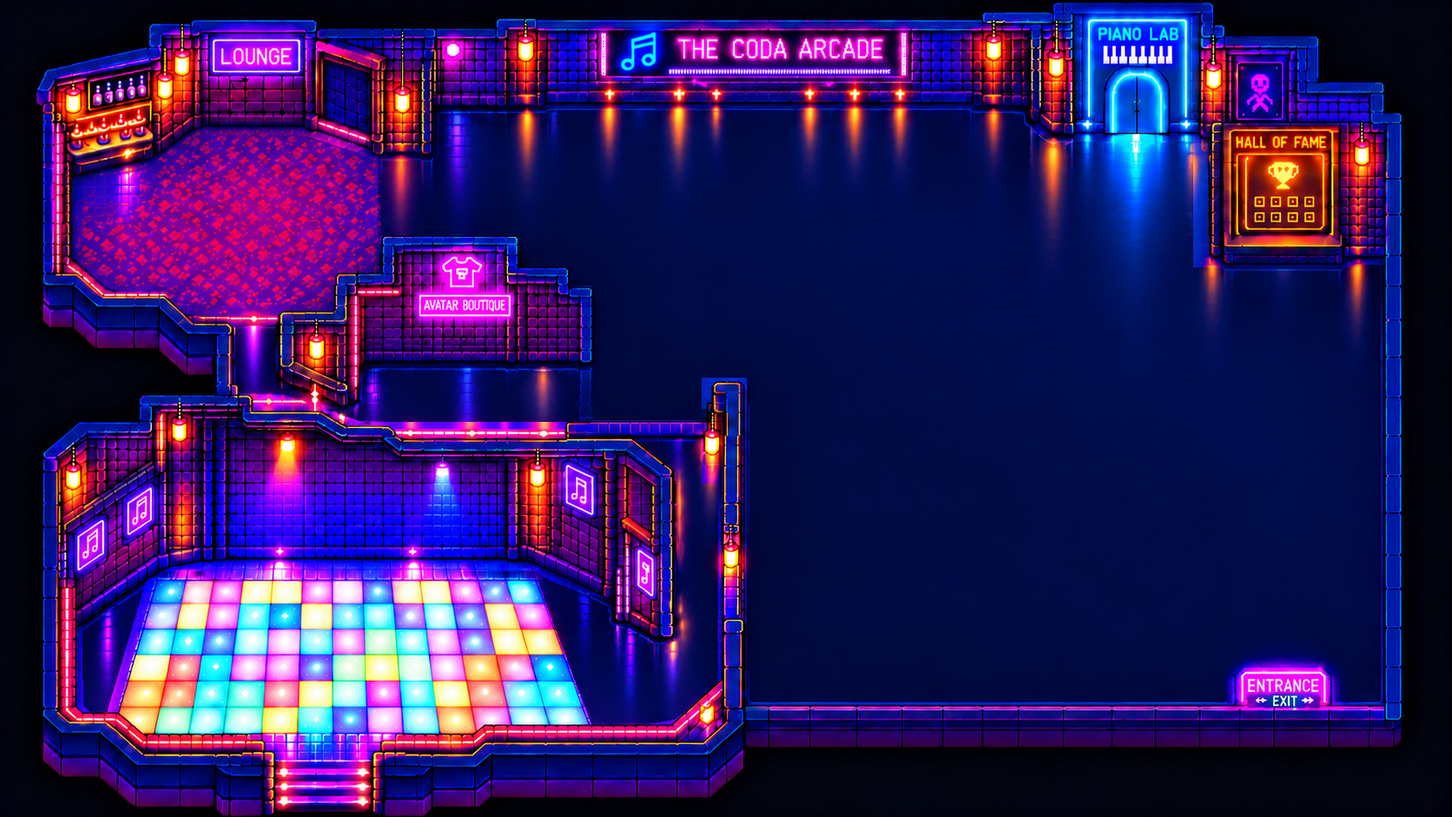
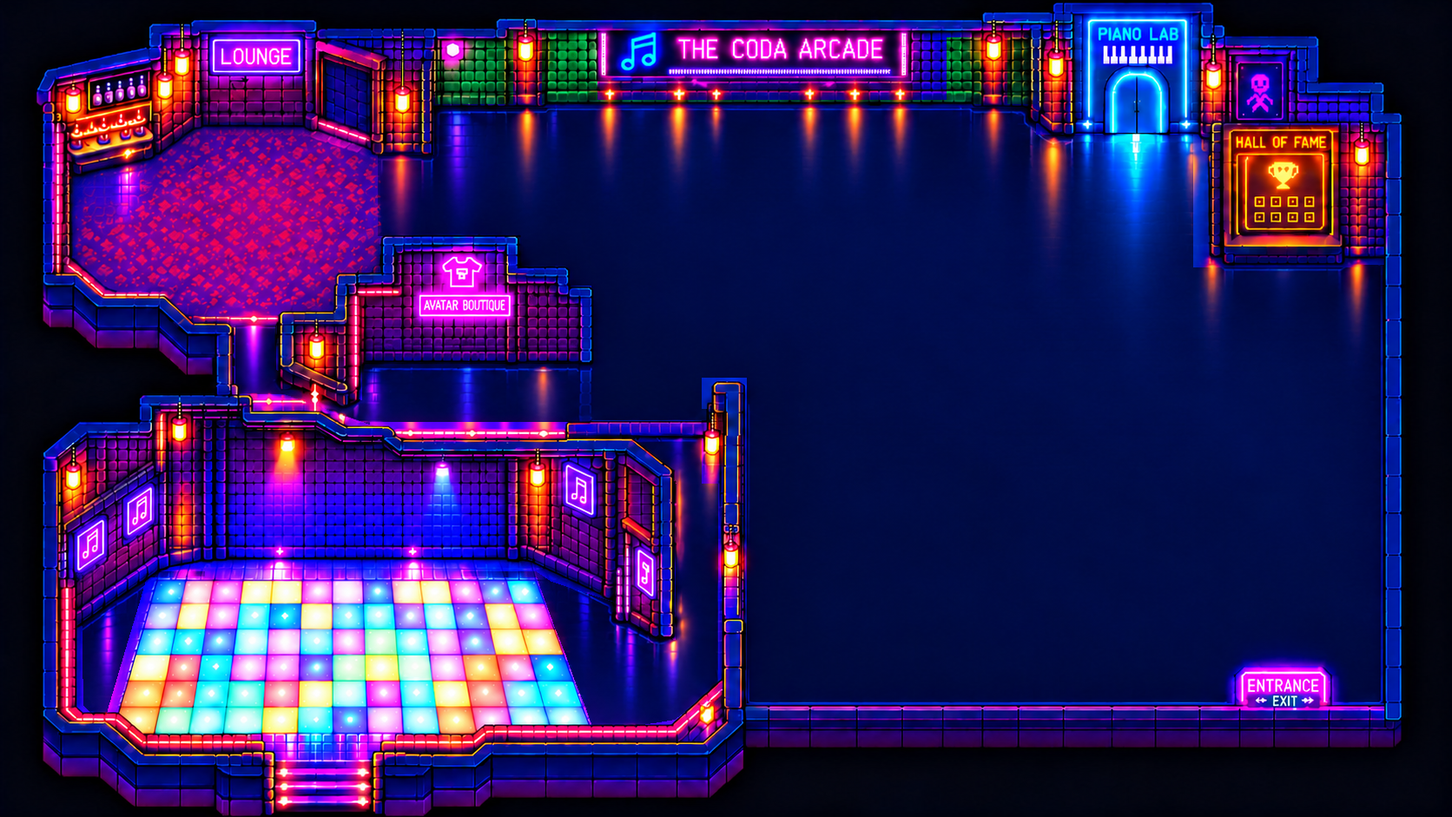
Apply emerald back wall and jade counter to the live assets
Implement the approved green palette in the actual environment art instead of leaving it only in a mock-up. Preserve the glass floor, layout, sign and lamp pixels outside the masonry mask, plus the counter silhouette and original gold trim.

Render the three known counter icons in mint and emerald while retaining their source PNGs and user artwork. Keep generated source art and a repeatable green postprocess in the floor build pipeline; refresh background and counter cache versions.

Validation: 890 Node tests and nine browser checks passed; fresh HTTP rendering shows the real green assets. Complete floor-plus-green rebuild is byte-identical.

Changed region(s): [[0.2799, 0.0308, 0.4354, 0.1541], [0.6531, 0.0308, 0.7153, 0.1233]]

diff --git a/world-preview.html b/world-preview.html
@@ -28,7 +28,7 @@
 #assetStudio{position:fixed;left:12px;top:80px;z-index:65;width:min(334px,calc(100vw - 24px));max-height:calc(100dvh - 99px);overflow:auto;background:#171529f5;border:1px solid #eac17d;box-shadow:0 12px 50px #05010de0,0 0 22px #fdac4a24;border-radius:12px;padding:13px;color:#f8efff;font:12px system-ui;backdrop-filter:blur(9px)}
 #assetStudio[hidden]{display:none}#assetStudio .studioHead{display:flex;align-items:center;justify-content:space-between;color:#ffe4a4;font-size:14px;gap:9px;margin-bottom:7px}#assetStudio .studioActions{display:flex;flex-wrap:wrap;gap:5px;margin:7px 0}#assetStudio button{font:inherit;min-height:28px;padding:5px 7px}#assetStudio .studioActions button{flex:1 0 90px}#assetStudio button:disabled{opacity:.36;cursor:not-allowed}#assetStudio hr{border:0;border-top:1px solid #655374;margin:13px 0}#assetStudio .studioField{display:grid;gap:3px;margin:7px 0}#assetStudio .studioField>label{font-weight:650;color:#dccdf3}#assetStudio input:not([type=checkbox]),#assetStudio select{background:#131024;border:1px solid #866e9b;color:#fff;padding:7px;border-radius:5px;width:100%;font:inherit;min-width:0}#assetStudio input[type=checkbox]{accent-color:#f9c880}#assetStudio .studioGrid{display:grid;grid-template-columns:1fr 1fr;gap:8px}#assetStudio .studioTip{color:#c9b9d6;line-height:1.45;font-size:11px;margin:6px 0}#assetStudio #assetList{height:108px;padding:2px}#assetStudio #assetList option{padding:6px}#assetStudio #assetMessage{color:#bbf5e5;min-height:18px;overflow-wrap:anywhere}#assetStudio #assetSelection[hidden]{display:none}#assetStudio .studioCheck{display:inline-flex;align-items:center;gap:6px;margin:5px 11px 5px 0}#assetStudio .studioCollapsible{border:1px solid #655374;border-radius:7px;padding:8px}#assetStudio summary{cursor:pointer;color:#ffe4b1;font-weight:650}#assetToggle{border-color:#eecc7c}#view.asset-editing{cursor:crosshair;touch-action:none}#assetStudio #assetAdd{background:#675022;border-color:#e8b85c}#assetStudio #assetImport{border-color:#80d3ed}#assetStudio #assetExport{border-color:#80d3ed}#assetStudio #assetHelp{background:#271d3c}#assetStudio .studioHot{color:#ffcfa4}body.asset-console-open #layerEditor{display:none!important}@media(max-width:650px){#assetStudio{top:120px;max-height:calc(100dvh - 138px)}}
 /* DJ unlocks */ #panel .jukebox-track-locked{background:#79788612;border-radius:8px;padding:8px}#panel .jukebox-track-locked strong,#panel .jukebox-track-locked small{color:#a6a6b8}#panel .jukebox-track-locked [data-dj-requirement]{color:#e9d29e}
-</style><link rel="stylesheet" href="mobile-controls.css?v=controls-81"><link rel="stylesheet" href="world-mobile.css?v=dialogue-1"><script src="mobile-controls.js?v=joystick-41"></script><script src="finger-follow.js?v=student-29"></script><link rel="stylesheet" href="reward-notifications.css?v=music-30"><script src="reward-notifications.js?v=music-30"></script><link rel="stylesheet" href="developer-console.css?v=rugs-flip-20261031-1"><link rel="stylesheet" href="musician-ui.css?v=dialogue-1"><link rel="stylesheet" href="boutique-ui.css?v=avatar-50"><script src="collision-editor.js?v=mobile-28"></script><script src="world-object-catalog.js?v=floor-61"></script><script src="fishing-entrance.js?v=fishing-31"></script><script src="world-object-runtime.js?v=rugs-flip-20261031-1"></script><script src="world-lighting.js?v=dj-96"></script><script src="dj-floodlights.js?v=stage-lights-20261031-1"></script><script src="dance-floor.js?v=aligned-dance-20261031-1"></script><script src="floor-stars.js?v=glass-stars-20261031-1"></script><script src="dance-rhythm-engine.js?v=play-97"></script><script src="dance-floor-stage.js?v=dance-95"></script><script src="dj-library.js?v=dj-96"></script><link rel="stylesheet" href="dialogue-editor.css?v=music-30"><script src="dialogue-editor.js?v=music-30"></script><link rel="stylesheet" href="pixel-editor.css?v=pixels-103"><script src="pixel-selection.js?v=smooth-mask-1"></script><script src="layer-selection.js?v=layer-selection-20261030-1"></script><script src="pixel-editor.js?v=smooth-mask-1"></script><script src="world-floor-grid.js?v=flat-75"></script><link rel="stylesheet" href="education-editor.css?v=author-101"><link rel="stylesheet" href="education-visual-editor.css?v=author-101"><script src="education-visual-editor.js?v=author-101"></script><script src="education-editor.js?v=author-101"></script><link rel="stylesheet" href="music-history-editor.css?v=facts-20261029-1"><script src="music-history-editor.js?v=facts-20261029-1"></script><script src="environment-art.js?v=glass-fringe-20261031-1"></script><script src="world-character-editor.js?v=selected-order-20261030-1"></script><link rel="stylesheet" href="decor-library.css?v=decor-20261030-1"><script src="decor-library.js?v=rugs-flip-20261031-1"></script><script src="floor-palette-compat.js?v=glass-fringe-20261031-1"></script><script src="developer-console.js?v=glass-fringe-20261031-1"></script><script src="npc-visitors.js?v=visitors-42"></script><script src="npc-behavior.js?v=composers-2"></script><script src="pet-companion.js?v=premium-42"></script><script src="character-renderer.js?v=scholar-1"></script><link rel="stylesheet" href="artwork-editor.css?v=selection-edit-20261030-1"><script src="artwork-editor.js?v=feather-20261030-1"></script><script src="character-artwork-adapter.js?v=pixels-64"></script><script src="world-artwork-tools.js?v=glass-fringe-20261031-1"></script><script src="world-layer-renderer.js?v=rugs-flip-20261031-1"></script><link rel="stylesheet" href="musician-trivia.css?v=music-30"><script src="musician-trivia.js?v=music-30"></script><script src="musician-ui.js?v=dialogue-1"></script><script src="boutique-ui.js?v=classroom-54"></script><link rel="stylesheet" href="notes-shop.css?v=avatar-50"><link rel="stylesheet" href="music-notation.css?v=fishing-31"><script src="music-notation.js?v=fishing-31"></script><link rel="stylesheet" href="education-notation.css?v=education-90"><script src="education-notation.js?v=lessons-93"></script><script src="piano-wall-notation.js?v=learning-48"></script><link rel="stylesheet" href="room-developer-editor.css?v=pixels-64"><script src="room-developer-editor.js?v=rugs-flip-20261031-1"></script><link rel="stylesheet" href="rhythm-fishing.css?v=dialogue-1"><script src="rhythm-fishing-engine.js?v=fishing-47"></script><script src="fishing-progress.js?v=fishing-31"></script><script src="fishing-cave-layout.js?v=cave-32"></script><script src="fishing-cave-effects.js?v=cave-32"></script><script src="fish-shadow-motion.js?v=cave-32"></script><script src="rhythm-beaming.js?v=fishing-34"></script><link rel="stylesheet" href="dance-rhythm-game.css?v=play-97"><script src="dance-rhythm-game.js?v=play-97"></script><script src="dance-floor-world.js?v=play-97"></script><link rel="stylesheet" href="cave-camera.css?v=mobile-36"><script src="cave-camera.js?v=mobile-36"></script><link rel="stylesheet" href="fishing-battle.css?v=fishing-34"><script src="fishing-battle.js?v=mobile-36"></script><script src="fishing-music.js?v=music-42"></script><script src="fishing-boat.js?v=mobile-36"></script><script src="fishing-rhythm-input.js?v=controls-37"></script><link rel="stylesheet" href="fishing-practice.css?v=controls-37"><script src="fishing-practice.js?v=controls-37"></script><script src="rhythm-fishing.js?v=dialogue-1"></script><link rel="stylesheet" href="piano-lab.css?v=dialogue-1"><link rel="stylesheet" href="music-classroom.css?v=learning-48"><script src="notes-shop.js?v=profiles-87"></script><script src="room-fullscreen.js?v=learning-48"></script><script src="piano-melodies.js?v=learning-48"></script><script src="piano-lab.js?v=dialogue-1"></script><link rel="stylesheet" href="classroom-tutorials.css?v=lessons-93"><link rel="stylesheet" href="time-signature-lesson.css?v=lessons-51"><script src="time-signature-lesson.js?v=education-90"></script><link rel="stylesheet" href="classroom-quiz.css?v=learning-48"><script src="classroom-keyboard.js?v=author-101"></script><script src="classroom-quiz-pool.js?v=classroom-97"></script><script src="classroom-quiz.js?v=author-101"></script><script src="final-exam-bank.js?v=exam-86"></script><script src="classroom-curriculum-staff.js?v=keyboard-99"></script><script src="classroom-curriculum-rhythm.js?v=lessons-93"></script><script src="classroom-curriculum-expression.js?v=keyboard-99"></script><script src="classroom-exam-curriculum.js?v=keyboard-99"></script><link rel="stylesheet" href="classroom-exam-study.css?v=lessons-102"><script src="classroom-exam-study.js?v=author-101"></script><script src="classroom-accidentals-lesson.js?v=keyboard-99"></script><script src="classroom-tutorials.js?v=author-101"></script><link rel="stylesheet" href="final-exam.css?v=lessons-93"><script src="classroom-understanding-basics.js?v=classroom-97"></script><script src="classroom-understanding-staff.js?v=classroom-97"></script><script src="classroom-learning-paths-data.js?v=author-101"></script><script src="education-content.js?v=lessons-102"></script><link rel="stylesheet" href="classroom-learning-paths.css?v=lessons-93"><script src="classroom-learning-paths.js?v=author-101"></script><script src="final-exam.js?v=author-101"></script><script src="music-classroom.js?v=dialogue-1"></script><link rel="stylesheet" href="player-progression.css?v=mobile-28"><link rel="stylesheet" href="hall-of-fame.css?v=achievements-89"><link rel="stylesheet" href="arcade-vibes.css?v=vibes-82"><script src="arcade-vibes.js?v=vibes-84"></script><script src="player-progression.js?v=dj-96"></script><script src="achievement-catalog.js?v=dj-96"></script><link rel="stylesheet" href="player-profile.css?v=student-29"><script src="player-profile.js?v=quests-82"></script><script src="hall-of-fame.js?v=achievements-89"></script><script src="musician-missions.js?v=quests-82"></script><script src="song-machine/sound-library.js?v=mobile-28"></script><link rel="stylesheet" href="play-notebook.css?v=play-97"><script src="changelog-data.js?v=console-fullscreen-20261029-1"></script><script src="play-notebook.js?v=play-97"></script><header><b>♫ CODA ARCADE · CONNECTED WORLD / WORLD BUILDER</b><span><a href="classic-arcade.html">← Original arcade</a> &nbsp; <button id="levelBtn" type="button" aria-label="Your profile">Profile · Level 1</button> <button id="hallFameBtn" type="button">Hall of Fame</button> <button id="notesBtn" type="button" aria-label="Open Notes shop">♫ 150 Notes</button> <button id="pianoLabBtn" type="button">Piano Lab</button> <button id="classroomBtn" type="button">Classroom</button> <button id="fishingBtn" type="button">Rhythm Fishing</button> <button id="accountBtn">◉ Guest</button> <button id="jukeboxBtn">♫ Jukebox</button> <button id="assetToggle" type="button" title="Open Asset Studio (Shift+A)">✥ Assets</button> <button id="editorToggle" type="button" title="Edit pixel foreground layers (Shift+L)">✎ Layers</button> <button id="musicBtn" type="button" aria-pressed="false" title="Play or stop optional original arcade groove">♫ Music: Off</button> <button id="fxBtn" type="button" title="Choose full, lite or off visual effects">✧ FX: Full</button> <span id="cameraTools" role="group" aria-label="Camera zoom controls"><button type="button" id="zoomOut" title="Zoom out (−)" aria-label="Zoom out">−</button><button type="button" id="zoomReset" title="Reset camera zoom (0)" aria-label="Reset zoom to 100%">100%</button><button type="button" id="zoomIn" title="Zoom in (+)" aria-label="Zoom in">+</button></span> <button id="fs">⛶ Fullscreen</button></span></header><main id="worldStage" aria-label="Arcade world"><canvas id="view" width="1672" height="941" tabindex="0" aria-label="Connected arcade. Move with WASD or arrow keys. Press Space to jump and E to interact."></canvas></main><footer><span>WASD / arrows · Walk · Space · Jump · Wheel / + / − Zoom · 0 Reset · F2 Developer console · C Edit collision · Shift+L Edit layers · Right-drag to pan in editor &nbsp; E · Interact &nbsp; Q · Emote · P · Play notes · Click to walk · Touch and drag to steer</span><span id="status">Phase 11 · asset studio · animations · layers · C collision · L layers</span></footer><aside id="layerEditor" hidden aria-label="Foreground layer painting editor">
+</style><link rel="stylesheet" href="mobile-controls.css?v=controls-81"><link rel="stylesheet" href="world-mobile.css?v=dialogue-1"><script src="mobile-controls.js?v=joystick-41"></script><script src="finger-follow.js?v=student-29"></script><link rel="stylesheet" href="reward-notifications.css?v=music-30"><script src="reward-notifications.js?v=music-30"></script><link rel="stylesheet" href="developer-console.css?v=rugs-flip-20261031-1"><link rel="stylesheet" href="musician-ui.css?v=dialogue-1"><link rel="stylesheet" href="boutique-ui.css?v=avatar-50"><script src="collision-editor.js?v=mobile-28"></script><script src="world-object-catalog.js?v=floor-61"></script><script src="fishing-entrance.js?v=fishing-31"></script><script src="world-object-runtime.js?v=rugs-flip-20261031-1"></script><script src="world-lighting.js?v=dj-96"></script><script src="dj-floodlights.js?v=stage-lights-20261031-1"></script><script src="dance-floor.js?v=aligned-dance-20261031-1"></script><script src="floor-stars.js?v=glass-stars-20261031-1"></script><script src="dance-rhythm-engine.js?v=play-97"></script><script src="dance-floor-stage.js?v=dance-95"></script><script src="dj-library.js?v=dj-96"></script><link rel="stylesheet" href="dialogue-editor.css?v=music-30"><script src="dialogue-editor.js?v=music-30"></script><link rel="stylesheet" href="pixel-editor.css?v=pixels-103"><script src="pixel-selection.js?v=smooth-mask-1"></script><script src="layer-selection.js?v=layer-selection-20261030-1"></script><script src="pixel-editor.js?v=smooth-mask-1"></script><script src="world-floor-grid.js?v=flat-75"></script><link rel="stylesheet" href="education-editor.css?v=author-101"><link rel="stylesheet" href="education-visual-editor.css?v=author-101"><script src="education-visual-editor.js?v=author-101"></script><script src="education-editor.js?v=author-101"></script><link rel="stylesheet" href="music-history-editor.css?v=facts-20261029-1"><script src="music-history-editor.js?v=facts-20261029-1"></script><script src="main-counter-palette.js?v=emerald-20261031-1"></script><script src="environment-art.js?v=emerald-20261031-1"></script><script src="world-character-editor.js?v=selected-order-20261030-1"></script><link rel="stylesheet" href="decor-library.css?v=decor-20261030-1"><script src="decor-library.js?v=rugs-flip-20261031-1"></script><script src="floor-palette-compat.js?v=glass-fringe-20261031-1"></script><script src="developer-console.js?v=glass-fringe-20261031-1"></script><script src="npc-visitors.js?v=visitors-42"></script><script src="npc-behavior.js?v=composers-2"></script><script src="pet-companion.js?v=premium-42"></script><script src="character-renderer.js?v=scholar-1"></script><link rel="stylesheet" href="artwork-editor.css?v=selection-edit-20261030-1"><script src="artwork-editor.js?v=feather-20261030-1"></script><script src="character-artwork-adapter.js?v=pixels-64"></script><script src="world-artwork-tools.js?v=glass-fringe-20261031-1"></script><script src="world-layer-renderer.js?v=rugs-flip-20261031-1"></script><link rel="stylesheet" href="musician-trivia.css?v=music-30"><script src="musician-trivia.js?v=music-30"></script><script src="musician-ui.js?v=dialogue-1"></script><script src="boutique-ui.js?v=classroom-54"></script><link rel="stylesheet" href="notes-shop.css?v=avatar-50"><link rel="stylesheet" href="music-notation.css?v=fishing-31"><script src="music-notation.js?v=fishing-31"></script><link rel="stylesheet" href="education-notation.css?v=education-90"><script src="education-notation.js?v=lessons-93"></script><script src="piano-wall-notation.js?v=learning-48"></script><link rel="stylesheet" href="room-developer-editor.css?v=pixels-64"><script src="room-developer-editor.js?v=rugs-flip-20261031-1"></script><link rel="stylesheet" href="rhythm-fishing.css?v=dialogue-1"><script src="rhythm-fishing-engine.js?v=fishing-47"></script><script src="fishing-progress.js?v=fishing-31"></script><script src="fishing-cave-layout.js?v=cave-32"></script><script src="fishing-cave-effects.js?v=cave-32"></script><script src="fish-shadow-motion.js?v=cave-32"></script><script src="rhythm-beaming.js?v=fishing-34"></script><link rel="stylesheet" href="dance-rhythm-game.css?v=play-97"><script src="dance-rhythm-game.js?v=play-97"></script><script src="dance-floor-world.js?v=play-97"></script><link rel="stylesheet" href="cave-camera.css?v=mobile-36"><script src="cave-camera.js?v=mobile-36"></script><link rel="stylesheet" href="fishing-battle.css?v=fishing-34"><script src="fishing-battle.js?v=mobile-36"></script><script src="fishing-music.js?v=music-42"></script><script src="fishing-boat.js?v=mobile-36"></script><script src="fishing-rhythm-input.js?v=controls-37"></script><link rel="stylesheet" href="fishing-practice.css?v=controls-37"><script src="fishing-practice.js?v=controls-37"></script><script src="rhythm-fishing.js?v=dialogue-1"></script><link rel="stylesheet" href="piano-lab.css?v=dialogue-1"><link rel="stylesheet" href="music-classroom.css?v=learning-48"><script src="notes-shop.js?v=profiles-87"></script><script src="room-fullscreen.js?v=learning-48"></script><script src="piano-melodies.js?v=learning-48"></script><script src="piano-lab.js?v=dialogue-1"></script><link rel="stylesheet" href="classroom-tutorials.css?v=lessons-93"><link rel="stylesheet" href="time-signature-lesson.css?v=lessons-51"><script src="time-signature-lesson.js?v=education-90"></script><link rel="stylesheet" href="classroom-quiz.css?v=learning-48"><script src="classroom-keyboard.js?v=author-101"></script><script src="classroom-quiz-pool.js?v=classroom-97"></script><script src="classroom-quiz.js?v=author-101"></script><script src="final-exam-bank.js?v=exam-86"></script><script src="classroom-curriculum-staff.js?v=keyboard-99"></script><script src="classroom-curriculum-rhythm.js?v=lessons-93"></script><script src="classroom-curriculum-expression.js?v=keyboard-99"></script><script src="classroom-exam-curriculum.js?v=keyboard-99"></script><link rel="stylesheet" href="classroom-exam-study.css?v=lessons-102"><script src="classroom-exam-study.js?v=author-101"></script><script src="classroom-accidentals-lesson.js?v=keyboard-99"></script><script src="classroom-tutorials.js?v=author-101"></script><link rel="stylesheet" href="final-exam.css?v=lessons-93"><script src="classroom-understanding-basics.js?v=classroom-97"></script><script src="classroom-understanding-staff.js?v=classroom-97"></script><script src="classroom-learning-paths-data.js?v=author-101"></script><script src="education-content.js?v=lessons-102"></script><link rel="stylesheet" href="classroom-learning-paths.css?v=lessons-93"><script src="classroom-learning-paths.js?v=author-101"></script><script src="final-exam.js?v=author-101"></script><script src="music-classroom.js?v=dialogue-1"></script><link rel="stylesheet" href="player-progression.css?v=mobile-28"><link rel="stylesheet" href="hall-of-fame.css?v=achievements-89"><link rel="stylesheet" href="arcade-vibes.css?v=vibes-82"><script src="arcade-vibes.js?v=vibes-84"></script><script src="player-progression.js?v=dj-96"></script><script src="achievement-catalog.js?v=dj-96"></script><link rel="stylesheet" href="player-profile.css?v=student-29"><script src="player-profile.js?v=quests-82"></script><script src="hall-of-fame.js?v=achievements-89"></script><script src="musician-missions.js?v=quests-82"></script><script src="song-machine/sound-library.js?v=mobile-28"></script><link rel="stylesheet" href="play-notebook.css?v=play-97"><script src="changelog-data.js?v=console-fullscreen-20261029-1"></script><script src="play-notebook.js?v=play-97"></script><header><b>♫ CODA ARCADE · CONNECTED WORLD / WORLD BUILDER</b><span><a href="classic-arcade.html">← Original arcade</a> &nbsp; <button id="levelBtn" type="button" aria-label="Your profile">Profile · Level 1</button> <button id="hallFameBtn" type="button">Hall of Fame</button> <button id="notesBtn" type="button" aria-label="Open Notes shop">♫ 150 Notes</button> <button id="pianoLabBtn" type="button">Piano Lab</button> <button id="classroomBtn" type="button">Classroom</button> <button id="fishingBtn" type="button">Rhythm Fishing</button> <button id="accountBtn">◉ Guest</button> <button id="jukeboxBtn">♫ Jukebox</button> <button id="assetToggle" type="button" title="Open Asset Studio (Shift+A)">✥ Assets</button> <button id="editorToggle" type="button" title="Edit pixel foreground layers (Shift+L)">✎ Layers</button> <button id="musicBtn" type="button" aria-pressed="false" title="Play or stop optional original arcade groove">♫ Music: Off</button> <button id="fxBtn" type="button" title="Choose full, lite or off visual effects">✧ FX: Full</button> <span id="cameraTools" role="group" aria-label="Camera zoom controls"><button type="button" id="zoomOut" title="Zoom out (−)" aria-label="Zoom out">−</button><button type="button" id="zoomReset" title="Reset camera zoom (0)" aria-label="Reset zoom to 100%">100%</button><button type="button" id="zoomIn" title="Zoom in (+)" aria-label="Zoom in">+</button></span> <button id="fs">⛶ Fullscreen</button></span></header><main id="worldStage" aria-label="Arcade world"><canvas id="view" width="1672" height="941" tabindex="0" aria-label="Connected arcade. Move with WASD or arrow keys. Press Space to jump and E to interact."></canvas></main><footer><span>WASD / arrows · Walk · Space · Jump · Wheel / + / − Zoom · 0 Reset · F2 Developer console · C Edit collision · Shift+L Edit layers · Right-drag to pan in editor &nbsp; E · Interact &nbsp; Q · Emote · P · Play notes · Click to walk · Touch and drag to steer</span><span id="status">Phase 11 · asset studio · animations · layers · C collision · L layers</span></footer><aside id="layerEditor" hidden aria-label="Foreground layer painting editor">
   <div class="editorbanner"><b>✎ FOREGROUND EDITOR</b><button id="editClose" type="button">✕</button></div>
   <div class="mini">Paint with pixels from the existing arcade artwork. Erase removes unwanted foreground coverage; the floor stays unchanged.</div>
   <div class="editorline"><button type="button" id="editPaint" class="current">🖌 Paint</button><button type="button" id="editErase">⌫ Erase</button></div>
@@ -924,8 +924,9 @@ async function persistAssets(){
 }
 function assetSaveDebounced(){clearTimeout(assetSaveTimer);assetSaveTimer=setTimeout(()=>{if(assetStudio.ready)persistAssets()},400);}
 function assetImageKey(a){return a.kind==='builtin'?'builtin:'+a.ref:a.kind==='note'?'generated-note':a.data;}
+const mainCounterPalette=window.CodaMainCounterPalette?.create({enabled:refreshedEnvironment});
 function assetRawPicture(a){if(a.origin&&a.kind==='builtin')return developerConsole?.originalPicture(a);if(a.kind==='note')return null;if(a.kind==='builtin')return (a.ref==='foreground'?assetForegroundComposite():({world:refreshedEnvironment()?environmentArt?.background():worldArt,characters:actorsArt})[a.ref])||null;
- const key=assetImageKey(a);let image=assetImages.get(key);if(!image){image=new Image();image.decoding='async';image.src=a.data;assetImages.set(key,image)}return image;}
+ const key=assetImageKey(a);let image=assetImages.get(key);if(!image){image=new Image();image.decoding='async';image.src=a.data;assetImages.set(key,image)}return mainCounterPalette?.image(a,image)||image;}
 let assetArtworkSources=new WeakMap();
 function assetArtworkSourceNow(a,raw=assetRawPicture(a)){
  if(a.kind==='note'){
@@ -938,7 +939,7 @@ function assetArtworkSourceNow(a,raw=assetRawPicture(a)){
  const key=JSON.stringify(a.crop),cached=assetArtworkSources.get(a);if(cached?.key===key&&cached.raw===raw)return cached.image;
  const [x,y,width,height]=a.crop,image=makeCanvas(width,height);image.getContext('2d').drawImage(raw,x,y,width,height,0,0,width,height);assetArtworkSources.set(a,{key,raw,image});return image;
 }
-async function getAssetArtworkSource(a){const raw=assetRawPicture(a);if(raw?.decode&&!raw.complete)await raw.decode();return assetArtworkSourceNow(a,raw);}
+async function getAssetArtworkSource(a){let raw=assetRawPicture(a);if(raw?.decode&&!raw.complete)await raw.decode();raw=assetRawPicture(a);return assetArtworkSourceNow(a,raw);}
 function assetPicture(a){const raw=assetRawPicture(a);if(!a.artwork)return raw;const source=assetArtworkSourceNow(a,raw);return source?developerConsole?.assetArtwork(a,source)||source:raw;}
 let layerArtworkRevision=0,layerFrameSurface=null,sceneryGradeVibe=null;
 const layerSourceIds=new WeakMap();let nextLayerSourceId=1;

diff --git a/main-counter-palette.js b/main-counter-palette.js
@@ -1,0 +1,46 @@
+/* The three known Notes-counter icons share the jade/mint counter palette.
+ * Recolor a cached render source, never the embedded project PNG or user edits. */
+(function(root,factory){const api=factory();if(typeof module==='object'&&module.exports)module.exports=api;if(root)root.CodaMainCounterPalette=api;})(typeof window==='undefined'?null:window,function(){
+ 'use strict';
+ const IDS=new Set(['asset-40','asset-41','asset-42']),SOURCE_LENGTH=216694,SOURCE_HASH=0x0a8b972d;
+ const knownSources=new Map();
+ function matches(asset){
+  if(asset?.kind!=='image'||!IDS.has(asset.id)||typeof asset.data!=='string'||asset.data.length!==SOURCE_LENGTH)return false;
+  if(knownSources.has(asset.data))return knownSources.get(asset.data);
+  let hash=2166136261;
+  for(let index=0;index<asset.data.length;index++)hash=Math.imul(hash^asset.data.charCodeAt(index),16777619)>>>0;
+  const result=hash===SOURCE_HASH;if(knownSources.size>=8)knownSources.delete(knownSources.keys().next().value);knownSources.set(asset.data,result);return result;
+ }
+ function recolorPixels(pixels){
+  const result=new Uint8ClampedArray(pixels);
+  for(let index=0;index<result.length;index+=4){
+   const r=pixels[index],g=pixels[index+1],b=pixels[index+2],peak=Math.max(r,g,b),low=Math.min(r,g,b),spread=peak-low;
+   if(!pixels[index+3]||spread<14)continue;
+   let hue=peak===r?((g-b)/spread)%6:peak===g?(b-r)/spread+2:(r-g)/spread+4;
+   hue=(hue*60+360)%360;
+   const bright=Math.max(0,Math.min(1,(peak-80)/175));
+   if(hue>=160&&hue<=215){
+    result[index]=peak*(.28+.57*bright);result[index+1]=peak;result[index+2]=peak*(.60+.32*bright);
+   }else if(hue>=235&&hue<=330){
+    result[index]=peak*(.14+.18*bright);result[index+1]=peak*(.55+.41*bright);result[index+2]=peak*(.30+.26*bright);
+   }
+  }
+  return result;
+ }
+ function create(options={}){
+  const doc=options.document||(typeof document==='undefined'?null:document),cache=new WeakMap();
+  function image(asset,source){
+   if(options.enabled?.()===false||!source||!matches(asset))return source;
+   if(source.complete!==undefined&&(!source.complete||!source.naturalWidth))return source;
+   const width=source.naturalWidth||source.width,height=source.naturalHeight||source.height;
+   if(!doc||!Number.isInteger(width)||!Number.isInteger(height)||width<1||height<1)return source;
+   if(cache.has(source))return cache.get(source);
+   const canvas=doc.createElement('canvas');canvas.width=width;canvas.height=height;
+   const context=canvas.getContext('2d',{willReadFrequently:true});context.drawImage(source,0,0);
+   const pixels=context.getImageData(0,0,width,height);pixels.data.set(recolorPixels(pixels.data));context.putImageData(pixels,0,0);
+   cache.set(source,canvas);return canvas;
+  }
+  return {image};
+ }
+ return Object.freeze({create,matches,recolorPixels});
+});

diff --git a/environment-art.js b/environment-art.js
@@ -78,7 +78,7 @@
      finish();
     }catch(error){finish(Error('Environment artwork could not decode: '+file+'. '+(error.message||'')));}
    }
-   image.addEventListener('load',onload);image.addEventListener('error',onerror);image.src=baseUrl+file+(file===BACKGROUND?'?v=glass-fringe-20261031-1':'');
+   image.addEventListener('load',onload);image.addEventListener('error',onerror);image.src=baseUrl+file+((file===BACKGROUND||file==='main-counter.png')?'?v=emerald-20261031-1':'');
    if(image.complete&&image.naturalWidth)onload();
   }));
   const ready=Promise.all(tasks).then(()=>{loaded=true;});

diff --git a/tests/main-counter-palette-browser.py b/tests/main-counter-palette-browser.py
@@ -1,0 +1,61 @@
+"""Actual counter icon RGBA palette/cache and later user-artwork composition."""
+import json
+from pathlib import Path
+import sys
+import unittest
+from playwright.sync_api import sync_playwright
+
+sys.dont_write_bytecode=True
+ROOT=Path(__file__).resolve().parents[1]
+
+
+class MainCounterPaletteTests(unittest.TestCase):
+    def test_mint_icons_preserve_native_alpha_gold_and_user_pixel_overrides(self):
+        asset=next(item for item in json.loads((ROOT/'published-world-project.json').read_text())['assets'] if item['id']=='asset-40')
+        original=json.dumps(asset)
+        with sync_playwright() as p:
+            browser=p.chromium.launch(executable_path='/usr/bin/chromium',args=['--no-sandbox'])
+            page=browser.new_page()
+            for name in ['artwork-editor.js','world-artwork-tools.js','main-counter-palette.js']:
+                page.add_script_tag(content=(ROOT/name).read_text())
+            result=page.evaluate('''async asset=>{
+ const source=new Image();source.src=asset.data;await source.decode();
+ const palette=CodaMainCounterPalette.create({document,enabled:()=>true});
+ const tinted=palette.image(asset,source),cached=palette.image(asset,source);
+ const raw=document.createElement('canvas');raw.width=source.naturalWidth;raw.height=source.naturalHeight;
+ raw.getContext('2d').drawImage(source,0,0);
+ const before=raw.getContext('2d').getImageData(0,0,raw.width,raw.height).data;
+ const after=tinted.getContext('2d').getImageData(0,0,tinted.width,tinted.height).data;
+ let alphaChanges=0,gold=0,goldChanges=0,mintFaces=0,witness=null;
+ for(let i=0;i<before.length;i+=4){
+  if(before[i+3]!==after[i+3])alphaChanges++;
+  if(before[i+3]>200&&before[i]>170&&before[i+1]>90&&before[i+2]<65){
+   gold++;if(before[i]!==after[i]||before[i+1]!==after[i+1]||before[i+2]!==after[i+2])goldChanges++;
+  }
+  if(before[i+3]>240&&before[i]<80&&before[i+1]>160&&before[i+2]>200&&after[i]>175&&after[i+1]>after[i]&&after[i+2]>210){
+   mintFaces++;if(witness===null)witness=i/4;
+  }
+ }
+ if(witness===null)throw Error('No cyan source face was recolored to mint.');
+ const x=witness%raw.width,y=Math.floor(witness/raw.width),tile=Math.floor(x/64)+','+Math.floor(y/64);
+ const edited={...asset,artwork:{width:raw.width,height:raw.height,tiles:{[tile]:[[y%64*64+x%64,1,'#ff4488ff']]}}};
+ const tools=createCodaWorldArtworkTools({getRootData:()=>({}),getAssets:()=>[edited]});
+ const user=tools.assetImage(edited,palette.image(edited,source));
+ return {alphaChanges,gold,goldChanges,mintFaces,sameSize:tinted.width===raw.width&&tinted.height===raw.height,
+  cached:cached===tinted,duplicateUntouched:palette.image({...asset,id:'asset-99'},source)===source,
+  customReplacementUntouched:palette.image({...asset,data:asset.data.slice(0,-1)+'A'},source)===source,
+  override:[...user.getContext('2d').getImageData(x,y,1,1).data],raw:asset};
+}''',asset)
+            browser.close()
+        self.assertEqual(result['alphaChanges'],0)
+        self.assertTrue(result['sameSize'] and result['cached'])
+        self.assertGreater(result['gold'],50)
+        self.assertEqual(result['goldChanges'],0)
+        self.assertGreater(result['mintFaces'],1000)
+        self.assertTrue(result['duplicateUntouched'] and result['customReplacementUntouched'])
+        self.assertEqual(result['override'],[255,68,136,255])
+        self.assertEqual(json.dumps(result['raw']),original)
+
+
+if __name__=='__main__':
+    unittest.main(verbosity=2)

diff --git a/ENVIRONMENT-ART.md b/ENVIRONMENT-ART.md
@@ -40,6 +40,22 @@ Grounded footsteps brighten the tile beneath the player. Color animation and
 star pulses pause with Motion Off or reduced motion. FX Off hides stars and
 holds the dance-floor palette still, with footstep feedback available.
 
+## Emerald wall and jade counter
+
+The back-wall masonry around the main Coda sign is emerald green. The long
+shop counter uses jade panels and mint lighting with its original gold trim.
+The three existing counter icons use a matching mint/emerald rendering palette;
+their stored image data and player artwork remain intact.
+
+The generated sources are `source/green-back-wall.png` and
+`source/jade-counter.png` inside `assets/environment/`. Original counter and
+backdrop references are retained alongside them. Run
+`node scripts/build-green-accents.cjs` to rebuild the scoped palette edit.
+The floor builder runs that step automatically, so regenerating glass does not
+remove the green accents. Floor, sign and lamp pixels outside the masonry mask
+remain unchanged; the counter retains its alpha silhouette and original gold
+pixels. No project reset or layout change is needed.
+
 ## Saved floor-paint compatibility
 
 Older environment-v1 editor projects may contain painted blue floor repairs
